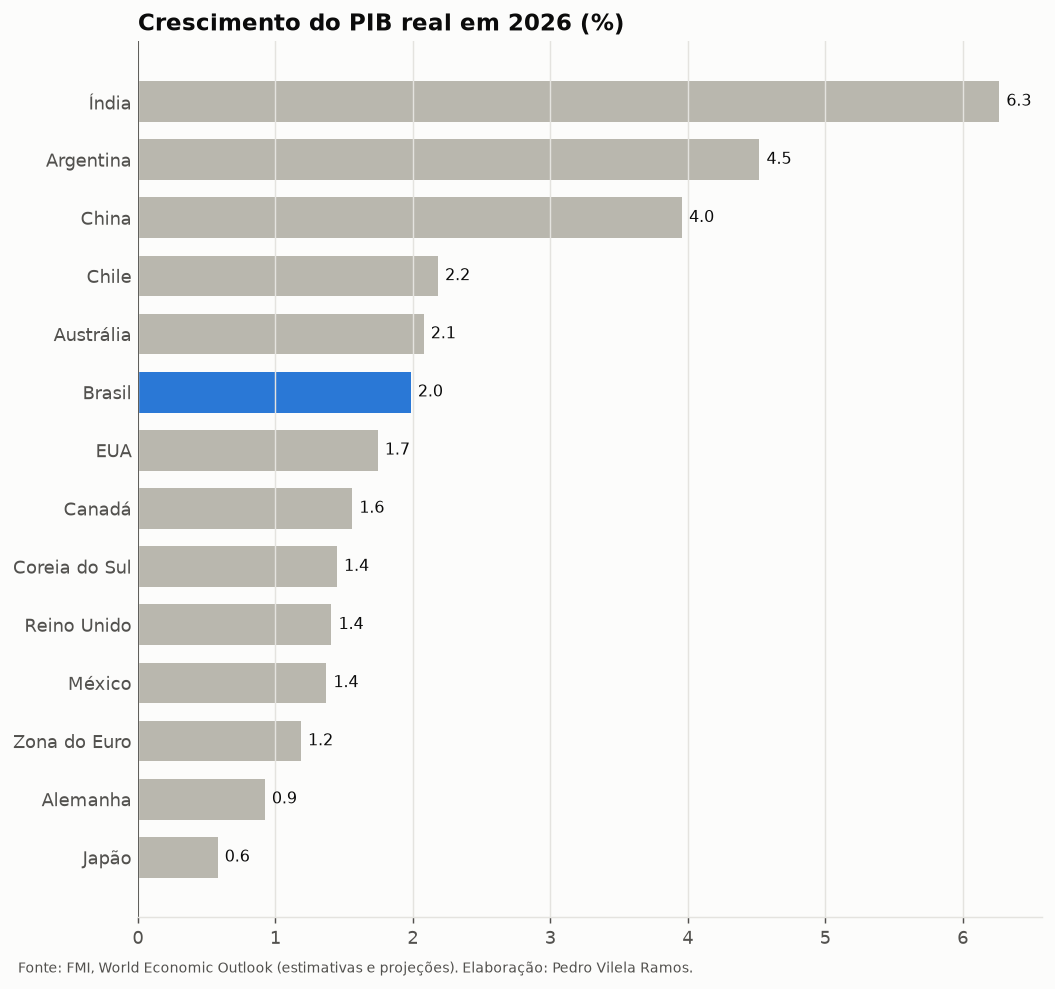
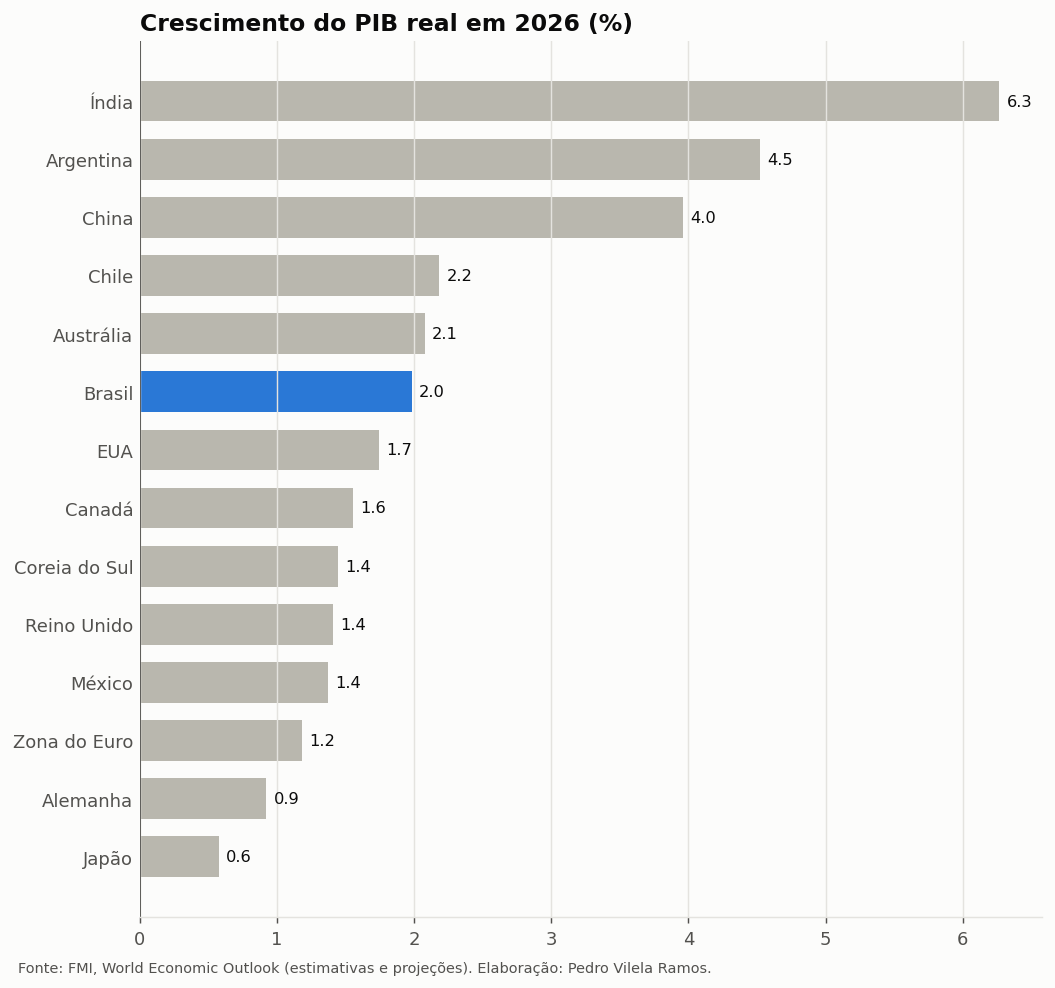
Rótulos que não se sobrepõem no gráfico de juros e inflação
Claude-Session: https://claude.ai/code/session_01A8aCxCn2DUD2c3aXyb1F3v

diff --git a/src/graficos.py b/src/graficos.py
@@ -57,11 +57,18 @@ def juros_inflacao(mensal: pd.DataFrame, destino: Path, inicio: str = "2015-01")
         ax.axhline(0, color=TEXTO_2, lw=0.8)
         ax.set_title(pais, fontsize=11)
         ax.tick_params(labelsize=8)
-        for col, cor in (("juros", AZUL), ("inflacao_12m", LARANJA)):
-            v = s[col].dropna()
-            if len(v):
-                ax.annotate(f"{v.iloc[-1]:.1f}", (v.index[-1], v.iloc[-1]), xytext=(4, 0),
-                            textcoords="offset points", fontsize=8, color=TEXTO, va="center")
+        ultimos = {c: s[c].dropna() for c in ("juros", "inflacao_12m")}
+        ultimos = {c: v for c, v in ultimos.items() if len(v)}
+        # Afasta os rótulos quando os dois últimos valores estão próximos
+        desloc = {c: 0 for c in ultimos}
+        if len(ultimos) == 2:
+            j, i = ultimos["juros"].iloc[-1], ultimos["inflacao_12m"].iloc[-1]
+            faixa = max(s[["juros", "inflacao_12m"]].max().max() - s[["juros", "inflacao_12m"]].min().min(), 1e-9)
+            if abs(j - i) / faixa < 0.08:
+                desloc = {"juros": 6 if j >= i else -6, "inflacao_12m": -6 if j >= i else 6}
+        for col, v in ultimos.items():
+            ax.annotate(f"{v.iloc[-1]:.1f}", (v.index[-1], v.iloc[-1]), xytext=(4, desloc[col]),
+                        textcoords="offset points", fontsize=8, color=TEXTO, va="center")
     for ax in eixos[len(paises):]:
         ax.set_visible(False)
     alcas, rotulos = eixos[0].get_legend_handles_labels()
